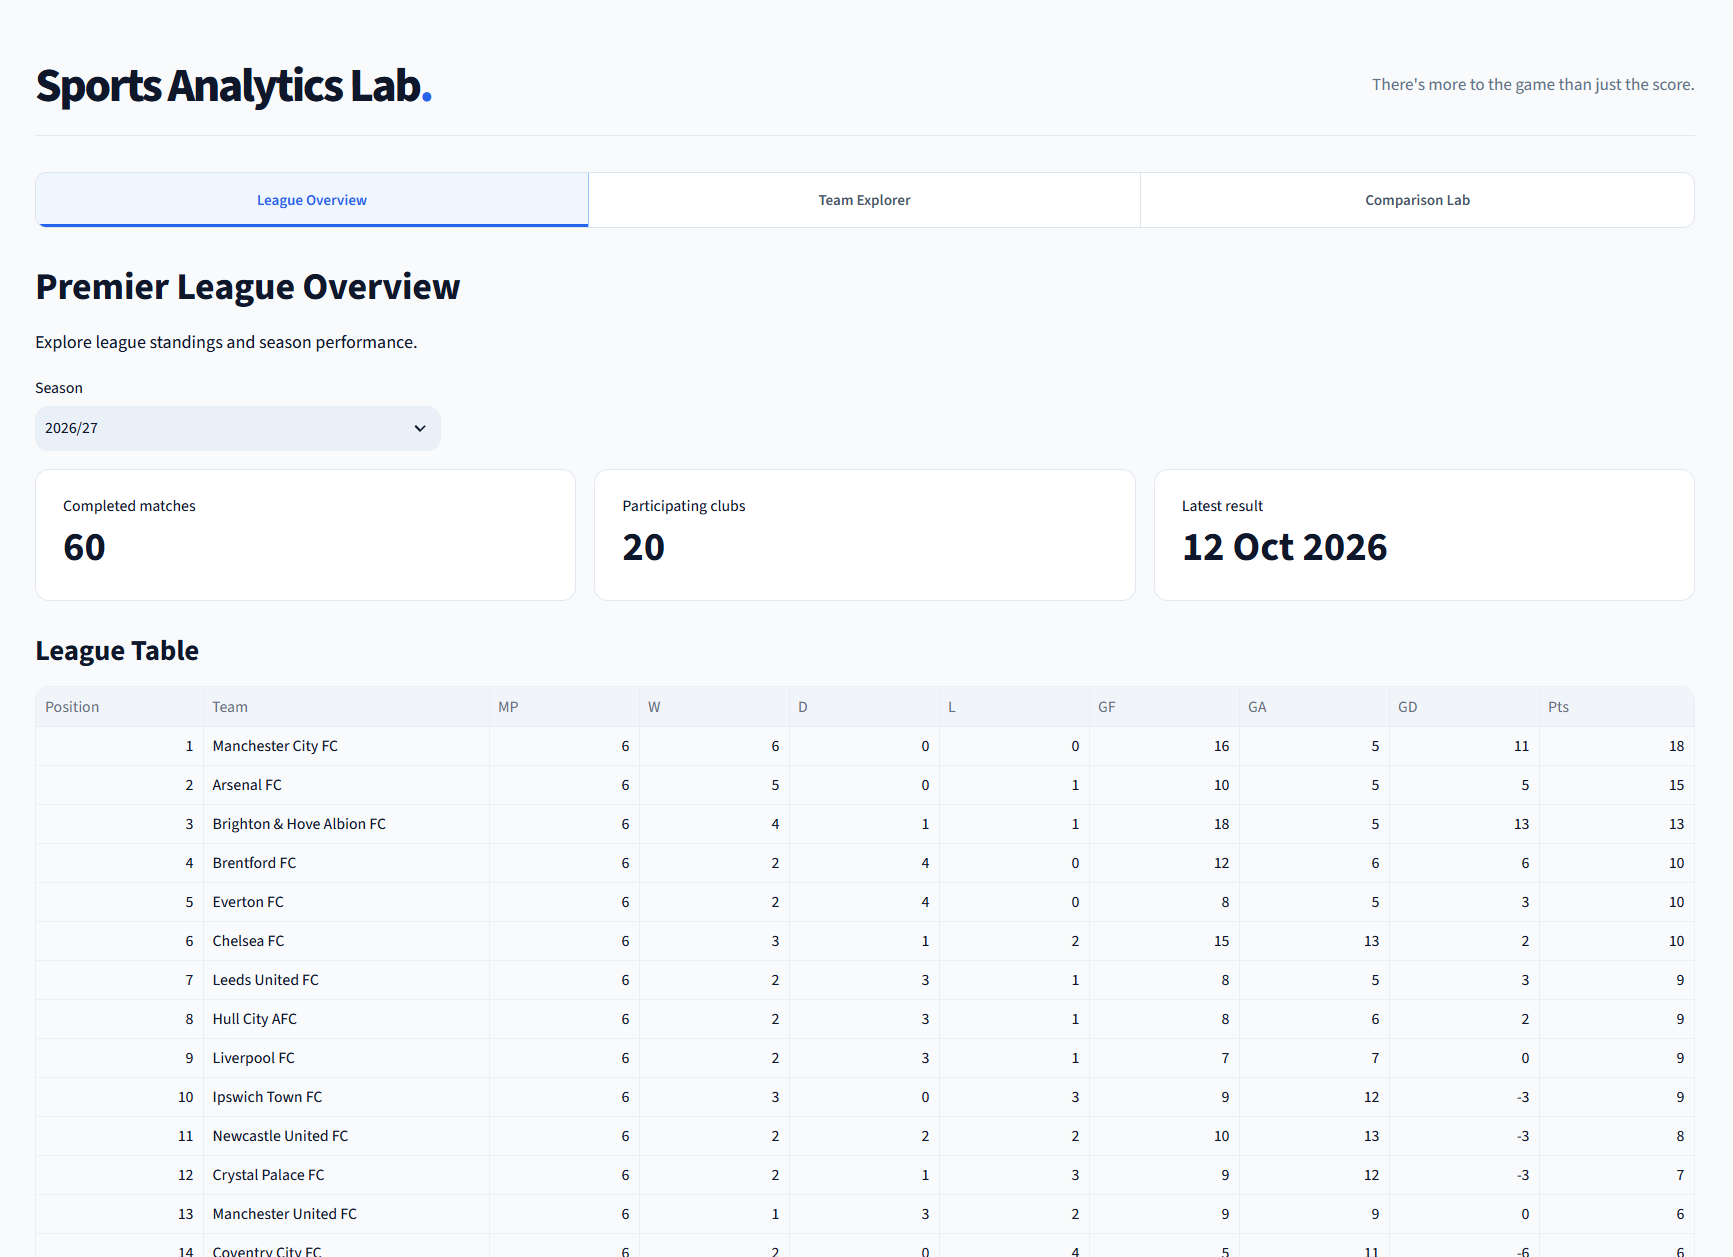
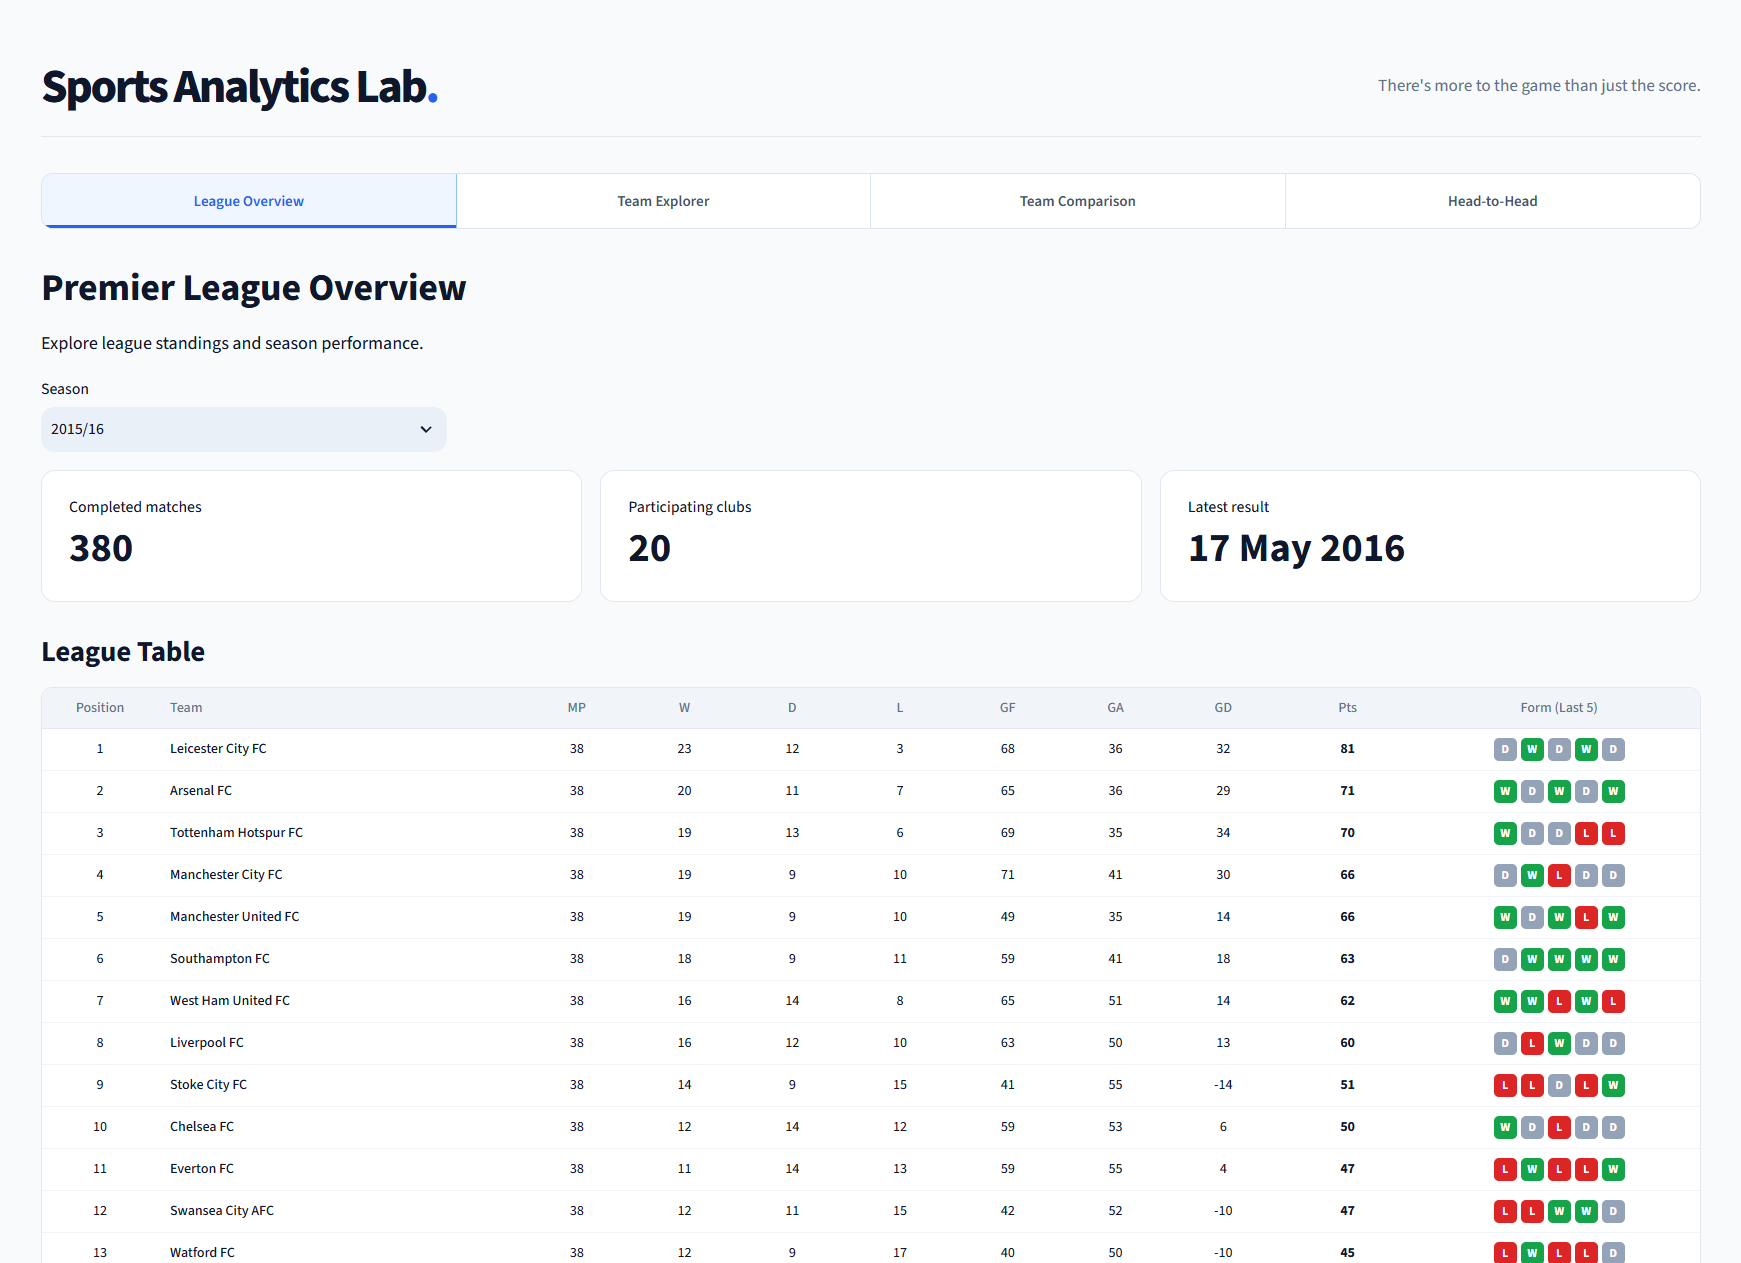
feat: Update README and app to reflect version 0.2 with expanded EPL coverage and new features

diff --git a/app/app.py b/app/app.py
@@ -3354,7 +3354,7 @@ footer_left, footer_right = st.columns([4, 1])
 
 with footer_left:
     st.caption(
-        "Sports Analytics Lab · v0.1 · Premier League 2024–2027"
+        "Sports Analytics Lab · v0.2 · Premier League 2015–2027"
     )
 
     # Visible data source attribution
@@ -3369,24 +3369,35 @@ with footer_right:
         type="tertiary",
         key="sal_methodology",
     ):
+        
         st.markdown(
             """
             **Data sources**
 
-            - **2024/25 and 2025/26:** OpenFootball (CC0 / public domain)
+            - **2015/16–2025/26:** OpenFootball (CC0 / public domain)
             - **2026/27:** football-data.org API
 
             **Data freshness**
 
-            The current season uses the latest
-            successfully retrieved API snapshot.
-            Data is not updated in real time.
+            Current-season results are retrieved through
+            scheduled GitHub Actions workflows and stored
+            in Supabase PostgreSQL.
+
+            Updates are periodic, not real-time.
 
             **Points calculation**
 
             - Win = 3 points
             - Draw = 1 point
             - Loss = 0 points
+
+            Official standings account for the final
+            2023/24 points deductions:
+            Everton FC (8 points) and
+            Nottingham Forest FC (4 points).
+
+            Points progression represents points earned
+            from match results, before deductions.
 
             **Cross-season comparison**
 
@@ -3403,6 +3414,7 @@ with footer_right:
             are not implemented.
             """
         )
+
 
 
 if SAL_PERF:

diff --git a/README.md b/README.md
@@ -30,67 +30,189 @@ And frankly, that's what has made the journey so rewarding.
 
 ## What Is Sports Analytics Lab?
 
-Sports Analytics Lab is an interactive analytics application designed to make sports data more accessible, understandable, and enjoyable to explore.
+Sports Analytics Lab is an interactive sports analytics application designed to make sports data more accessible, understandable, and enjoyable to explore.
 
-**Version 0.1 focuses on the English Premier League**, covering three seasons:
+**Version 0.2 focuses on the English Premier League**, covering 12 consecutive seasons:
 
-- 2024/25
-- 2025/26
-- 2026/27 (ongoing)
+- **2015/16–2025/26:** 11 completed Premier League seasons.
+- **2026/27:** The ongoing season, with periodically updated match results.
 
-Rather than simply displaying match results, the application allows users to explore team performance, identify trends, and compare clubs and seasons through interactive visualisations.
+Rather than simply displaying match results, the application allows users to explore league performance, examine individual clubs, compare teams across seasons, and investigate historical head-to-head records.
 
-### Current Features
+All analyses are built from match-level data, with interactive filters and visualisations designed for both desktop and mobile exploration.
 
-**League Overview**
+### What's New in v0.2?
 
-Explore Premier League standings and key performance indicators across different seasons.
+Version 0.2 significantly expands the scope of the original application.
 
-**Team Explorer**
+Key improvements include:
 
-Take a closer look at individual clubs through cumulative points progression, recent match form, home and away performance, and other team-level statistics.
+- **Expanded historical coverage:** Premier League match results dating back to 2015/16.
+- **Head-to-Head Explorer:** Historical meetings and performance comparisons between two clubs.
+- **Enhanced Team Comparison:** Side-by-side statistics, attacking and defensive performance, points progression, and form timelines.
+- **League & Club Records:** Winning streaks, unbeaten streaks, clean sheets, home and away performance, and standout matches.
+- **Interactive streak history:** Explore the individual matches behind a club's longest winning or unbeaten streak.
+- **Automated match updates:** Scheduled data ingestion using GitHub Actions, Python, and Supabase PostgreSQL.
+- **Improved data validation:** Historical team-name normalisation, duplicate detection, automated calculation tests, and official points deduction adjustments.
 
-![Sports Analytics Lab - Performance Analytics](docs/images/team-explorer.png)
+The goal is not simply to add more statistics, but to make it easier to understand the stories behind them.
 
-**Comparison Lab**
+---
 
-Compare multiple clubs within the same season, or explore how a club's performance has evolved across seasons. Users can examine full available season trajectories or compare an equal number of matches.
+## Explore the Features
 
-All analysis is generated from match-level data, with interactive filters and visualisations designed to make exploration intuitive on both desktop and mobile.
+### 1. League Overview
+
+Explore how Premier League clubs perform within a selected season.
+
+Features include:
+
+- League standings with wins, draws, losses, goals scored, goals conceded, goal difference, and points.
+- Recent form indicators for each club.
+- Season-level performance records, including longest winning and unbeaten streaks.
+- Clean-sheet leaders and home and away points-per-match records.
+- Highest-scoring matches and biggest victories.
+- Interactive club rankings with league-average benchmarks.
+
+Historical points deductions are incorporated where applicable, ensuring that league standings reflect verified official adjustments.
+
+### 2. Team Explorer
+
+Take a closer look at an individual club's performance during a selected Premier League season.
+
+![Sports Analytics Lab - Team Explorer](docs/images/team-explorer.png)
+
+Explore:
+
+- League position, points, wins, and goal difference.
+- Cumulative points progression across completed matches.
+- Recent match form and results.
+- Home versus away performance.
+- Cross-season points progression, including equal-length comparisons.
+- Club records and milestones.
+- The match-by-match history behind a club's longest winning and unbeaten streaks.
+
+The Team Explorer aims to move beyond a team's final league position and help explain how its season unfolded.
+
+
+
+### 3. Team Comparison
+
+Compare two to four Premier League clubs within the same season.
+
+![Sports Analytics Lab - Team Comparison](docs/images/team-comparison.png)
+
+The comparison tools include:
+
+- Side-by-side season statistics.
+- League positions, results, points, and goal differences.
+- Goals scored and conceded per match.
+- Cumulative points progression.
+- Attacking and defensive performance comparisons.
+- Interactive form timelines across a selected range of completed matches.
+
+These features make it possible to examine differences in performance, consistency, and results across competing clubs.
+
+
+
+### 4. Head-to-Head Explorer
+
+Explore historical Premier League meetings between two clubs across selected seasons.
+
+![Sports Analytics Lab - Head-to-Head](docs/images/head-to-head.png)
+
+The Head-to-Head Explorer provides:
+
+- Total completed meetings.
+- Wins, draws, and losses for each club.
+- Visual summaries of head-to-head results.
+- Chronological records of previous meetings.
+- Goals scored and average goals per meeting.
+- Clean-sheet records.
+- Flexible season selection for historical comparisons.
+
+With data extending back to 2015/16, users can explore how rivalries have developed across more than a decade of Premier League football.
+
+
+
+---
 
 ## How It Works
 
-Beyond the interface, Sports Analytics Lab is built as an end-to-end data analytics application.
+Beyond its interactive interface, Sports Analytics Lab is designed as an end-to-end data analytics application.
 
-The workflow consists of four main stages:
+The system combines historical datasets, external APIs, Python-based processing, PostgreSQL storage, and interactive analytics.
 
-**1. Data Collection & Integration**
+### 1. Data Collection & Integration
 
-Football match data is collected from external sources, including OpenFootball and football-data.org.
+Premier League match data is collected from two primary sources:
 
-**2. Data Processing & Validation**
+- **OpenFootball:** Historical match results from completed Premier League seasons.
+- **football-data.org:** Match results for the ongoing Premier League season.
 
-Python and pandas are used to standardise different data formats, validate match records, and prepare consistent datasets for analysis.
+Data from these sources is standardised into a consistent match-level structure.
 
-**3. Database & Analytics**
+### 2. Data Processing & Validation
 
-Processed data is stored in Supabase PostgreSQL. The application retrieves match records through a restricted read-only database connection and calculates performance metrics using Python.
+Python and pandas are used to extract, transform, validate, and prepare the collected data.
 
-**4. Interactive Application**
+Validation includes:
 
-Streamlit and Plotly transform the results into an interactive, responsive web application deployed through Streamlit Community Cloud.
+- Checking match and season coverage.
+- Identifying duplicate fixtures.
+- Verifying scores and participating clubs.
+- Standardising historical club names.
+- Checking calculated results against known historical reference values.
+
+Historical data is validated before being uploaded to the database.
+
+### 3. Database Storage & Analytics
+
+Validated match records are stored in **Supabase PostgreSQL**.
+
+The Streamlit application accesses the database through a restricted, read-only PostgreSQL connection.
+
+Reusable Python analytics modules calculate league standings, club results, performance comparisons, head-to-head records, and statistical milestones.
+
+This separation between data processing, analytical logic, and application presentation makes the project easier to test, maintain, and extend.
+
+### 4. Automated Data Updates
+
+Current-season results are updated using a scheduled **GitHub Actions** workflow.
+
+The automated pipeline:
+
+1. Retrieves completed matches from football-data.org.
+2. Validates the returned data.
+3. Compares the results with existing database records.
+4. Inserts new matches or updates changed records using PostgreSQL upsert operations.
+5. Avoids unnecessary database writes when no changes are detected.
+
+The workflow is scheduled to run four times per day and can also be triggered manually.
+
+Updates are periodic rather than real-time, and their availability depends on the upstream data provider and successful pipeline execution.
+
+### 5. Interactive Application
+
+Streamlit and Plotly transform the processed match data into interactive tables, charts, and analytical views.
+
+The application is deployed through **Streamlit Community Cloud**, with caching used to reduce repeated database queries and improve responsiveness.
 
 ### Technology Stack
 
-| Layer | Technologies |
-|---|---|
-| Data ingestion | Python, Requests |
-| Data processing & analysis | pandas, SQL |
-| Database | PostgreSQL, Supabase |
-| Visualisation | Plotly |
-| Application | Streamlit |
-| Version control | Git, GitHub |
-| Deployment | Streamlit Community Cloud |
+| Layer                 | Technologies                                  |
+| --------------------- | --------------------------------------------- |
+| Data ingestion        | Python, Requests, REST APIs                   |
+| Data processing       | pandas                                        |
+| Data analysis         | Python, pandas, SQL                           |
+| Database              | PostgreSQL, Supabase                          |
+| Database connectivity | psycopg, Supabase Python client               |
+| Workflow automation   | GitHub Actions                                |
+| Visualisation         | Plotly                                        |
+| Web application       | Streamlit                                     |
+| Version control       | Git, GitHub                                   |
+| Deployment            | Streamlit Community Cloud                     |
+| Testing               | Python assertions, automated regression tests |
 
 Throughout development, I have also used AI tools extensively as a learning and development companion, helping me brainstorm, write and debug code, explore alternatives, and iterate on the application.
 
@@ -98,16 +220,31 @@ Rather than simply relying on generated solutions, I've tried to make this a han
 
 ## Data Sources & Methodology
 
-The current application uses the following sources:
+### Data Sources
 
-- **OpenFootball:** Premier League 2024/25 and 2025/26 match results, provided under CC0/public-domain terms.
-- **football-data.org:** Premier League 2026/27 match data, used in accordance with the provider's terms.
+Sports Analytics Lab currently uses the following data sources:
 
-League standings and performance metrics are calculated independently from completed match records.
+**[OpenFootball](https://github.com/openfootball/football.json)**
 
-The application currently focuses on descriptive and comparative analysis. It does not yet incorporate advanced metrics such as expected goals (xG), detailed player statistics, or predictive modelling.
+Historical Premier League match results from 2015/16 through 2025/26. The dataset is provided under CC0/public-domain terms.
 
-Standings may also differ from official rankings in cases where additional competition tie-breakers are required. Current-season data reflects the latest successfully ingested results rather than a live feed.
+**[football-data.org](https://www.football-data.org/)**
+
+Premier League 2026/27 match results, retrieved through the provider's API in accordance with its usage terms.
+
+The application focuses on completed Premier League matches. Scheduled matches without final results are not included in match-performance calculations.
+
+### Limitations
+
+Sports Analytics Lab currently focuses on descriptive and comparative analysis.
+
+It does not yet include detailed player-level performance data, expected goals (xG), advanced event metrics, or predictive modelling.
+
+Standings are calculated independently from match results, with known historical points deductions incorporated. Additional official league tie-breakers are not fully implemented.
+
+The availability and accuracy of analyses also depend on the completeness and consistency of the underlying data sources.
+
+---
 
 ## My Vision for Sports Analytics Lab
 
@@ -123,7 +260,9 @@ I'm not trying to build everything at once.
 
 **My goal is to keep learning, keep experimenting, and gradually turn this small personal project into a richer sports analytics platform.**
 
-Version 0.1 is simply the beginning.
+Version 0.2 represents another step in that journey, but there's still so much more I'd love to explore.
+
+---
 
 ## Explore & Connect
 
@@ -137,6 +276,6 @@ Whether it's a feature suggestion, an interesting analytical question, or an ide
 
 ---
 
-**Sports Analytics Lab · Version 0.1**
+**Sports Analytics Lab · Version 0.2**
 
 *An independent personal project. Not affiliated with the Premier League or its clubs.*
